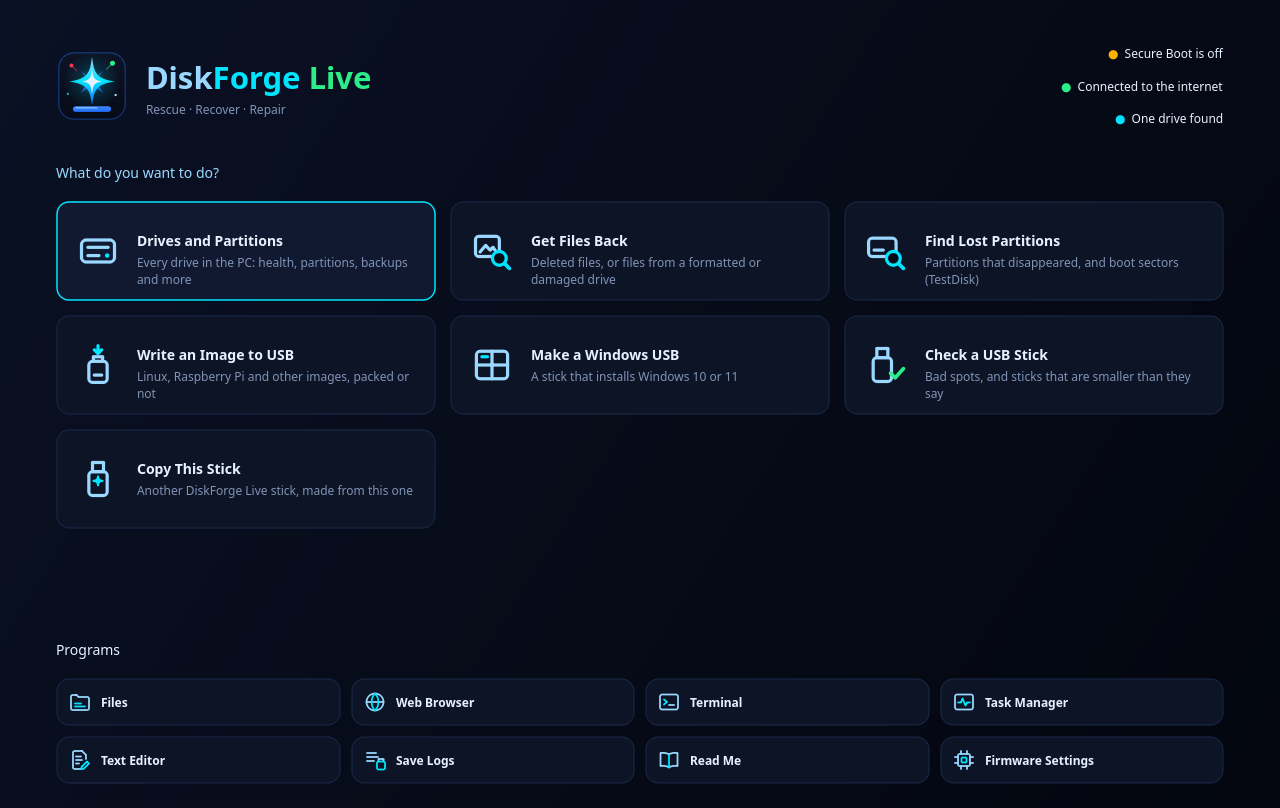
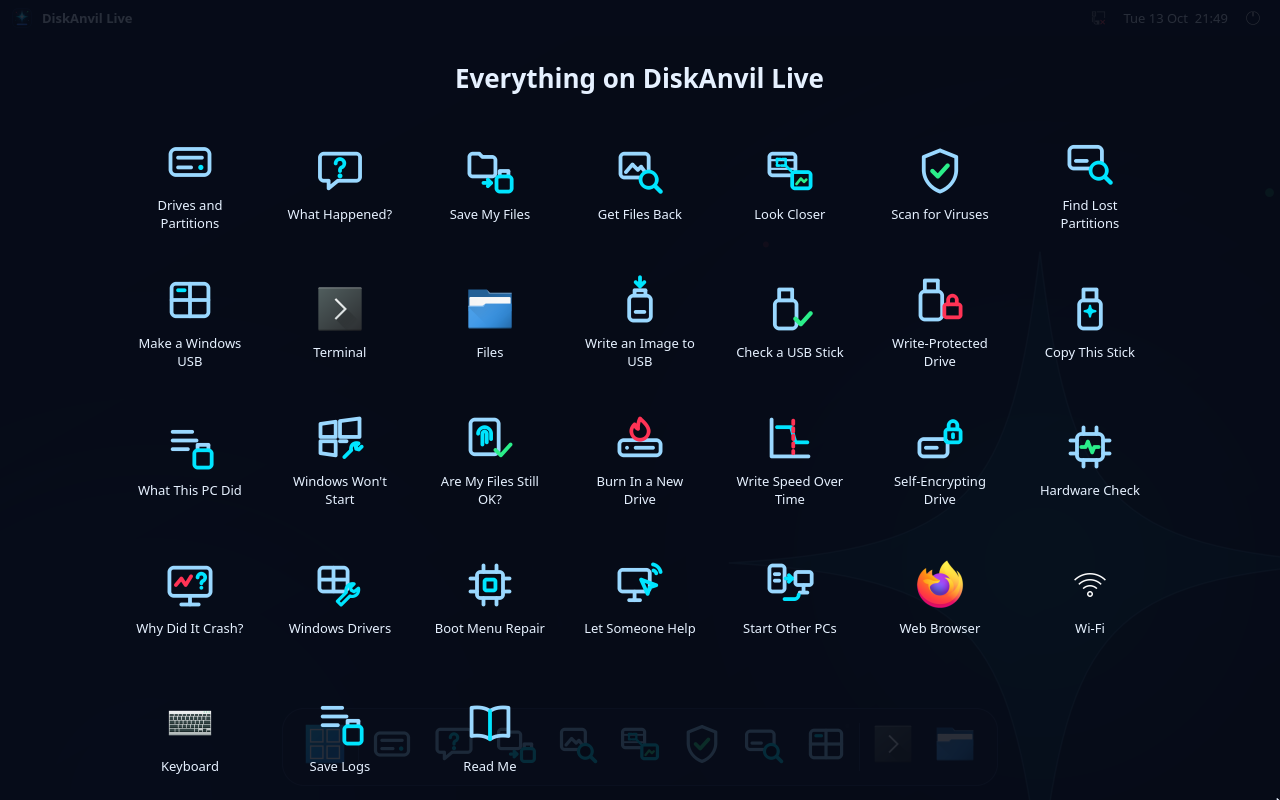
readme: screenshots of the new tools and live's tools, live's boot menu and settings file

diff --git a/README.md b/README.md
@@ -116,6 +116,21 @@ files that FAT, exFAT or NTFS still remember come back with their real names and
 - <img src="docs/icons/themes.svg" width="22" height="22" align="top" alt="">&nbsp; **Themes**: System, Classic, Deadshadow, High Contrast and DiskAnvil Live, or make your own
 - <img src="docs/icons/raid.svg" width="22" height="22" align="top" alt="">&nbsp; **RAID and LVM**: software RAID arrays with their status and a check button, and LVM volume groups
 
+### New in 0.5.2
+
+<table>
+<tr>
+<td width="50%"><img src="docs/shots/windows-wont-start.png" alt="Windows Won't Start, with a Windows' registry files checked and its System Restore copies"><br><b>Windows Won't Start</b>: a stuck update undone, a damaged registry file put back from System Restore</td>
+<td width="50%"><img src="docs/shots/burn-in.png" alt="Burn In a New Drive, finished"><br><b>Burn In a New Drive</b>: every step, then a verdict and a PDF</td>
+</tr>
+<tr>
+<td width="50%"><img src="docs/shots/write-speed.png" alt="Write Speed Over Time, a 2 GB drive written over"><br><b>Write Speed Over Time</b>: the speed drawn as it writes, and where an SSD's fast cache runs out</td>
+<td width="50%"><img src="docs/shots/hardware-check.png" alt="Hardware Check, this PC's parts"><br><b>Hardware Check</b>: the PC's parts, heat under load, battery wear, keys, screen and camera</td>
+</tr>
+</table>
+
+All taken on DiskAnvil Live in a virtual machine, so the drives and the PC are QEMU's.
+
 ## Getting it
 
 ### Arch
@@ -187,10 +202,11 @@ Most of it works the same as on Linux. What's different:
 
 ## <img src="rescue/art/diskanvil-live-icon.svg" width="32" height="32" align="top" alt="">&nbsp; DiskAnvil Live
 
-![DiskAnvil Live's home screen](docs/diskanvil-live.png)
+![Everything on DiskAnvil Live](docs/diskanvil-live.png)
 
 DiskAnvil Live is a small Linux system on a USB stick, with DiskAnvil and a few other repair tools on it. It starts
-any PC, new or old, even one whose own system won't start, and it opens on the screen above. To make one:
+any PC, new or old, even one whose own system won't start, with every tool a click away (above: all of them). To
+make one:
 
 1. Download `diskanvil-live-<version>.iso` from the [Releases page](https://github.com/DannyS124/diskanvil/releases).
 2. In DiskAnvil, go to File → Make a DiskAnvil Live USB, pick the ISO and the stick, and type the stick's name to
@@ -208,6 +224,12 @@ When you make the stick you can also tick:
   ISOs folder start from the boot menu too (Other ISOs on this stick, with Secure Boot off)
 
 A stick made with those can be updated to a new version without wiping it.
+
+Its boot menu can also start the PC's own system (Windows, say) as if the stick weren't in, start with large text
+and high contrast, and check every file on the stick first. **DiskAnvil Live settings.txt**, at the top of the
+stick, is read at every start and can be edited on any computer: the keyboard layout, the time zone, a Wi-Fi network
+to join, a tool to open straight away, every drive write-protected, large text. Nothing in it is ever run as a
+command.
 
 In DiskAnvil Live, Tools also has:
 
